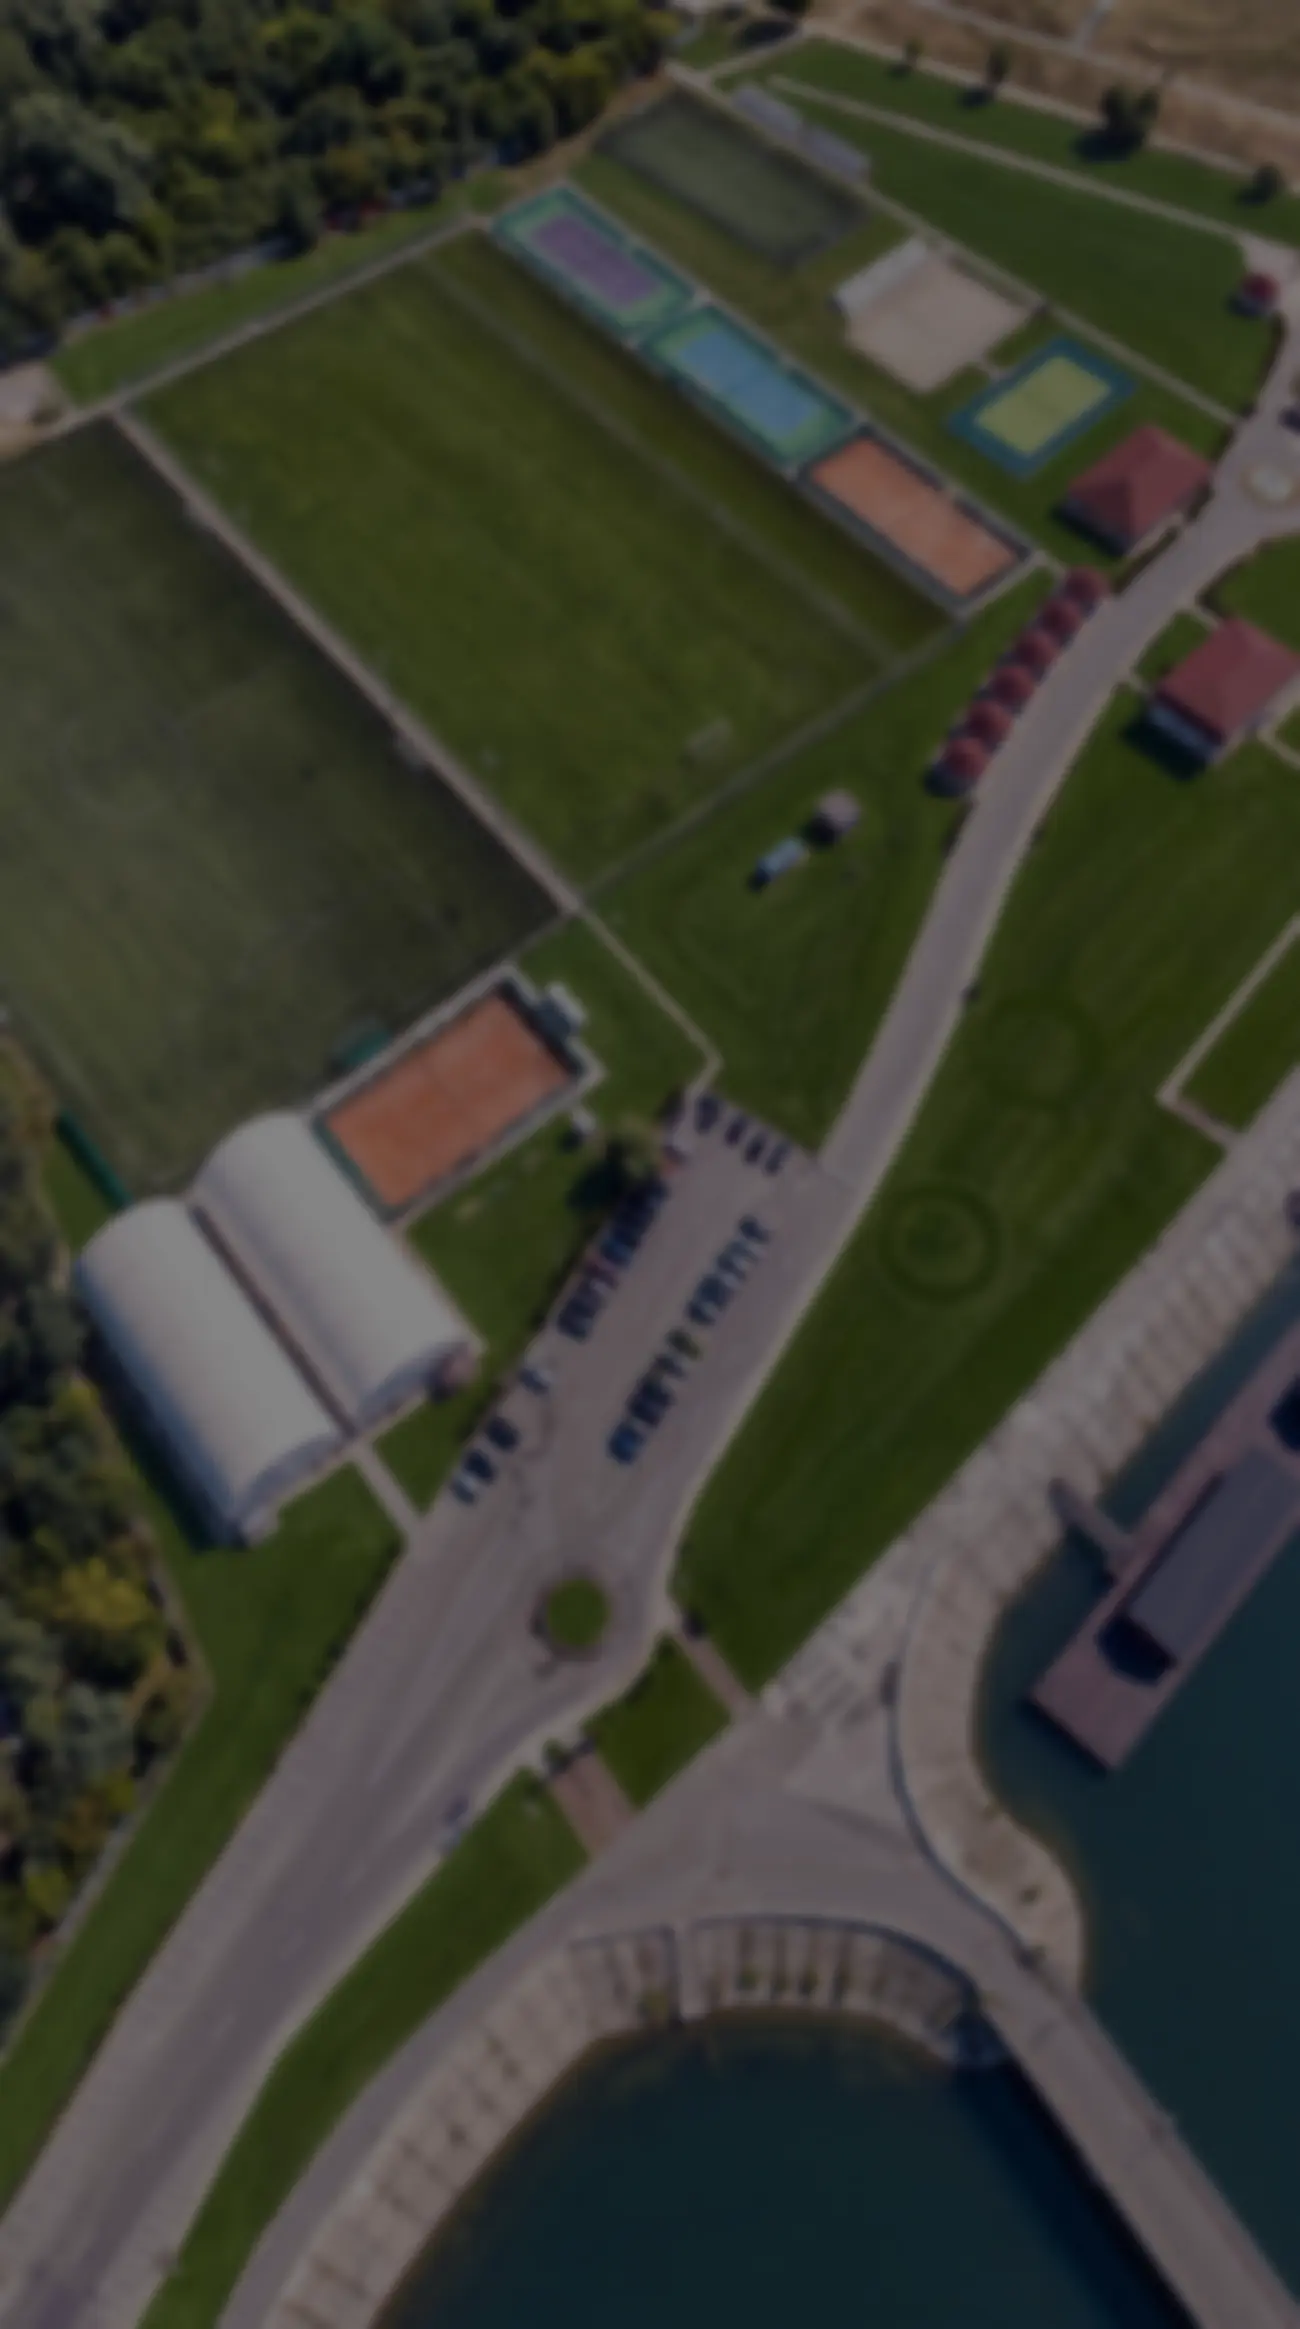
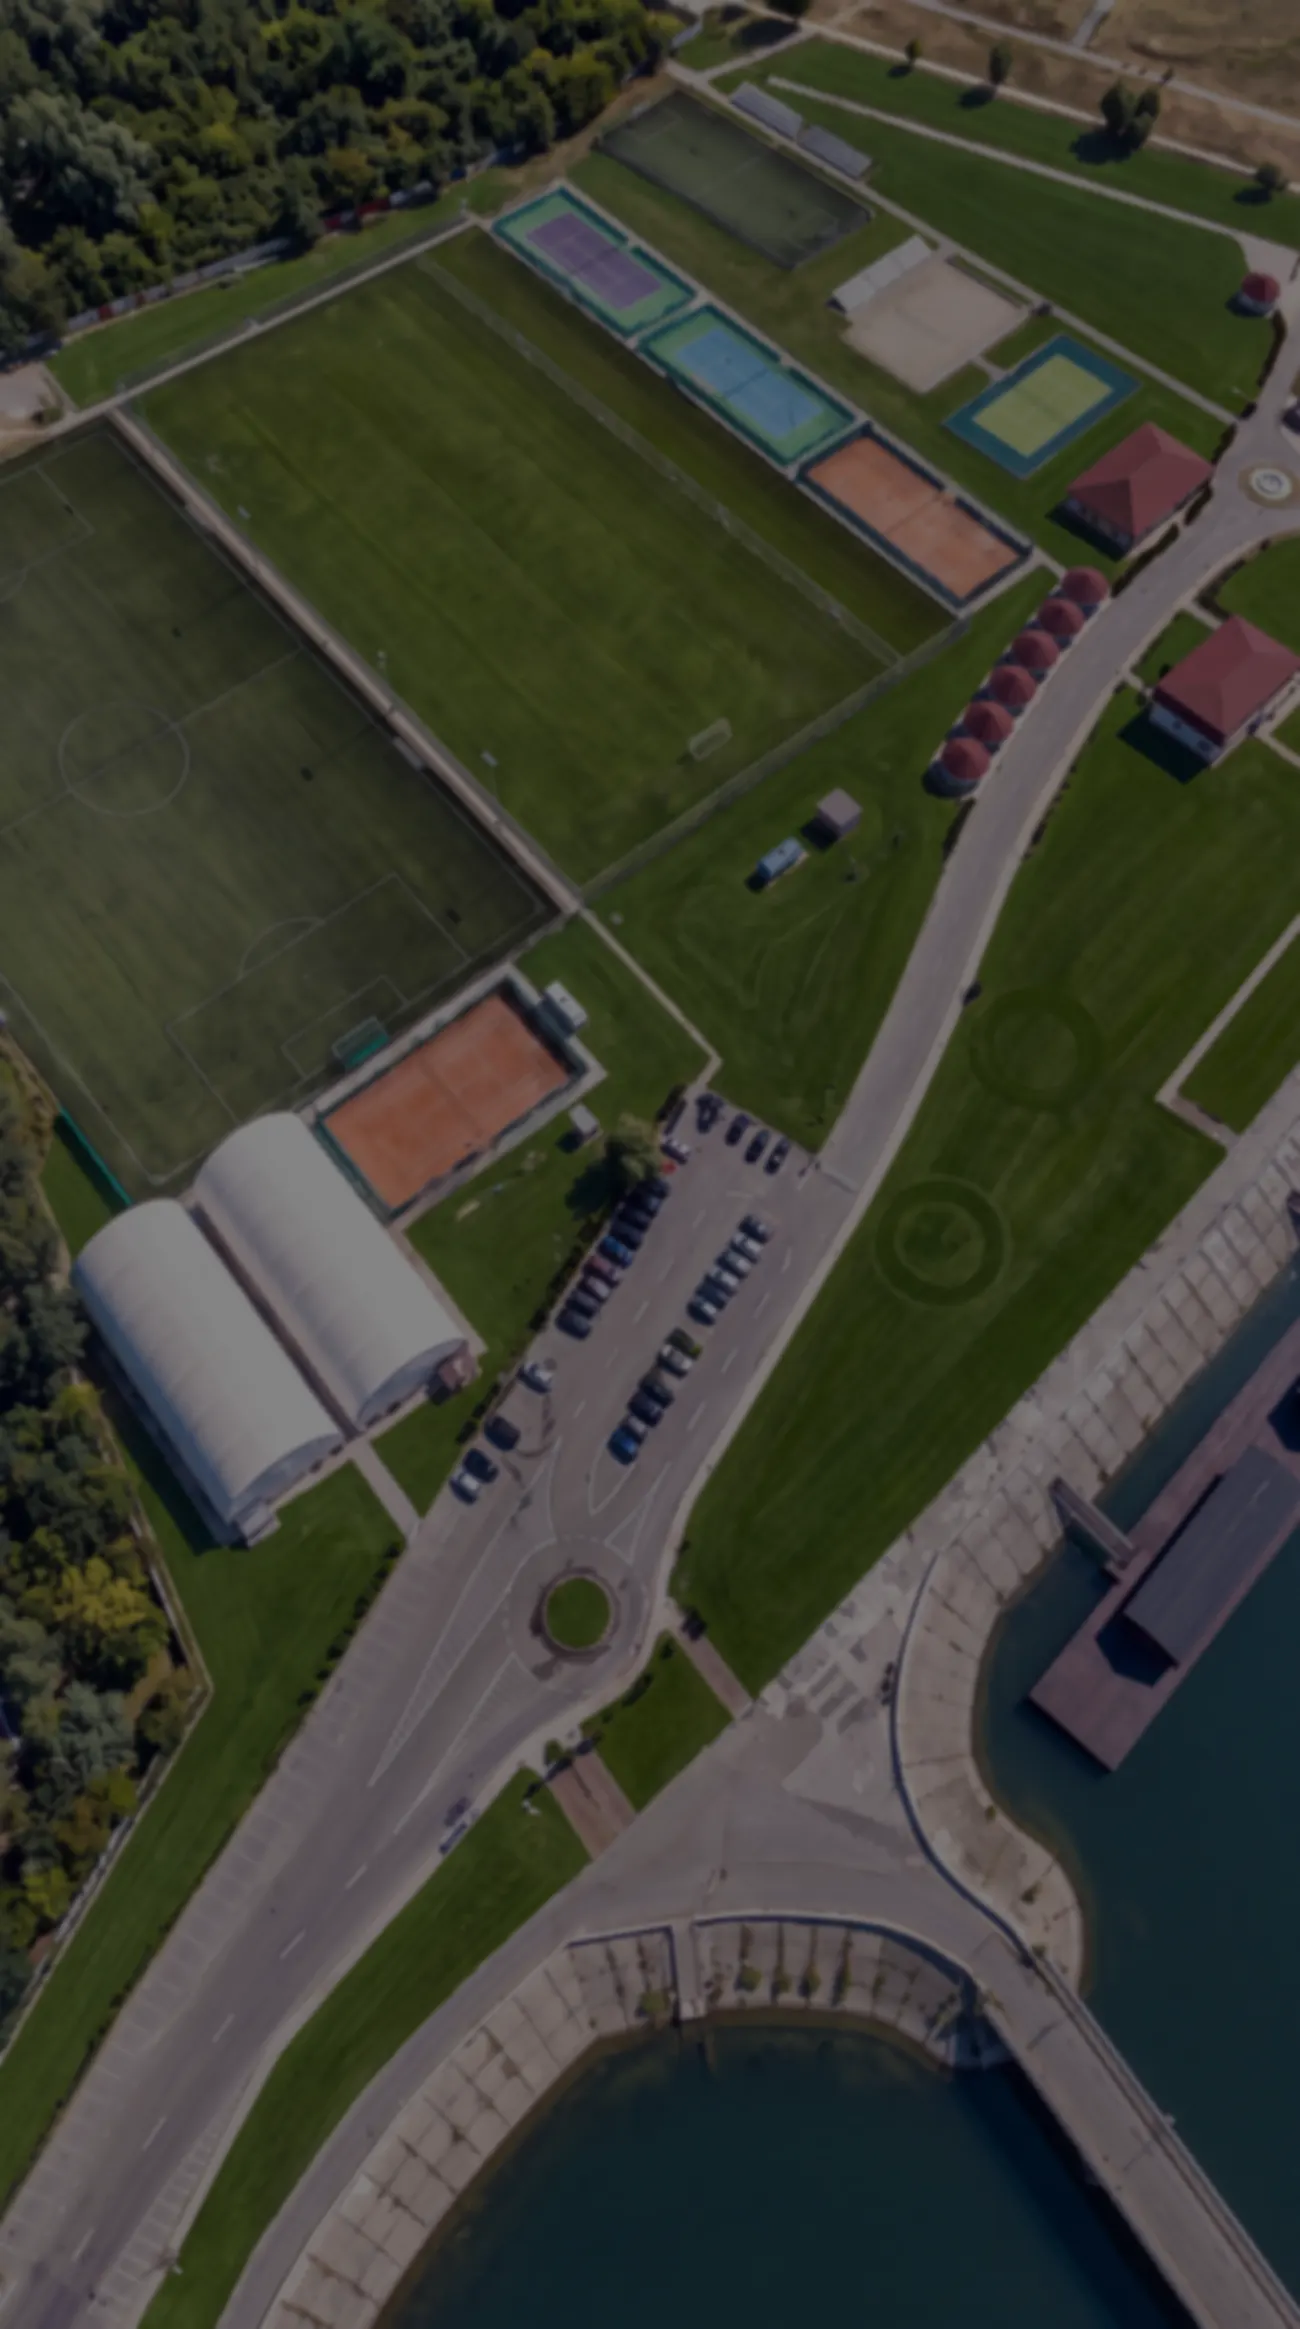
Plaja Olt: carusel cu swipe pe mobil la servicii, fundaluri mai clare
- pe telefon acordeonul devine carusel: carduri egale de 66vw, vecinul iese
  din ecran, scroll-snap, textul vizibil pe toate cardurile
- indicatoare sub carusel: puncte cu sageti, punctul activ se sincronizeaza
  la swipe si sare la card la atingere
- logica de acordeon dezactivata pe telefon, ca atingerea sa nu blocheze
  linkurile de rezervare; pe desktop acordeonul ramane neschimbat
- blurul fundalurilor redus de la 5 si 6 px la 2 px

diff --git a/css/plaja-v2.css b/css/plaja-v2.css
@@ -264,6 +264,22 @@
 .v2-cta:hover { color: var(--gold); border-color: var(--gold); transform: translateX(4px); }
 .v2-cta.gold { color: var(--gold); border-color: rgba(246,200,28,0.55); }
 .v2-cta.gold:hover { color: #ffd83d; border-color: #ffd83d; }
+/* indicatoarele caruselului (doar pe telefon) */
+.v2-dots {
+  display: none;
+  align-items: center; justify-content: center; gap: 7px;
+  margin-top: 14px;
+  color: rgba(255,255,255,0.45);
+}
+.v2-dots::before { content: "‹"; font-family: var(--font-display); font-size: 1rem; margin-right: 4px; }
+.v2-dots::after { content: "›"; font-family: var(--font-display); font-size: 1rem; margin-left: 4px; }
+.v2-dots .dot {
+  width: 6px; height: 6px; border-radius: 50%;
+  background: rgba(255,255,255,0.3);
+  transition: background 0.25s ease, transform 0.25s ease;
+}
+.v2-dots .dot.activ { background: var(--gold); transform: scale(1.35); }
+
 .v2-si-inca {
   width: min(1200px, 92vw); margin: clamp(22px, 3vw, 34px) auto 0;
   font-size: 0.85rem; color: rgba(255,255,255,0.55);
@@ -350,17 +366,25 @@
 }
 @media (max-width: 640px) {
   .v2-hero { height: 50svh; min-height: 340px; }
-  /* acordeonul rămâne orizontal și pe telefon: fâșiile pliate se subțiază mult,
-     ca fâșia deschisă să rămână destul de lată pentru preț și buton */
-  .v2-cards { width: 96vw; height: clamp(330px, 52svh, 430px); gap: 5px; }
-  .v2-card { flex: 0 0 26px; border-radius: 12px; }
-  .v2-card.is-open { flex: 1 1 auto; }
-  .v2-vert { font-size: 0.6rem; bottom: 10px; letter-spacing: 0.04em; }
-  .v2-card-copy { width: 100%; padding: 12px 12px 14px; gap: 3px; }
-  .v2-card h3 { font-size: 1.02rem; }
-  .v2-card-copy p { font-size: 0.72rem; line-height: 1.35; }
-  .v2-tag { font-size: 0.54rem; padding: 3px 8px; letter-spacing: 0.1em; }
-  .v2-cta { font-size: 0.74rem; margin-top: 7px; }
+  /* pe telefon acordeonul devine carusel cu swipe: carduri egale, mai înguste,
+     vecinii ies din ecran, iar punctele de sub ele arată că se poate glisa */
+  .v2-cards {
+    width: 100vw; height: clamp(330px, 52svh, 430px); gap: 12px;
+    overflow-x: auto; padding: 4px 17vw 8px;
+    scroll-snap-type: x mandatory;
+    scrollbar-width: none;
+  }
+  .v2-cards::-webkit-scrollbar { display: none; }
+  .v2-card, .v2-card.is-open { flex: 0 0 66vw; scroll-snap-align: center; cursor: default; }
+  .v2-vert { display: none; }
+  /* pe carusel, fiecare card e „deschis": conținutul se vede pe toate */
+  .v2-card .v2-card-copy { opacity: 1; transform: none; pointer-events: auto; transition: none; width: 100%; padding: 14px 16px 16px; gap: 4px; }
+  .v2-card .v2-card-veil { background: linear-gradient(to top, rgba(7,19,48,0.88) 0%, rgba(7,19,48,0.25) 45%, rgba(7,19,48,0.05) 70%); }
+  .v2-card h3 { font-size: 1.05rem; }
+  .v2-card-copy p { font-size: 0.74rem; line-height: 1.4; }
+  .v2-tag { font-size: 0.56rem; padding: 3px 9px; letter-spacing: 0.1em; }
+  .v2-cta { font-size: 0.76rem; margin-top: 8px; }
+  .v2-dots { display: flex; }
   /* prețurile compuse (30 min + 1 oră) au voie să treacă pe două rânduri */
   .v2-tarife li strong { white-space: normal; text-align: right; max-width: 46%; }
   .v2-aer img { object-position: 42% 45%; }

diff --git a/js/plaja-v2.js b/js/plaja-v2.js
@@ -7,9 +7,11 @@
 (function () {
   "use strict";
 
-  /* ---------- acordeonul de servicii: hover pe desktop, atingere pe mobil ---------- */
+  /* ---------- serviciile: acordeon pe desktop, carusel cu swipe pe telefon ---------- */
   var cards = Array.prototype.slice.call(document.querySelectorAll(".v2-card"));
+  var eTelefon = window.matchMedia("(max-width: 640px)");
   function deschide(card) {
+    if (eTelefon.matches) return; // pe carusel toate cardurile stau deschise
     cards.forEach(function (c) { c.classList.toggle("is-open", c === card); });
   }
   cards.forEach(function (card) {
@@ -17,11 +19,39 @@
       if (e.pointerType === "mouse") deschide(card);
     });
     card.addEventListener("click", function (e) {
+      if (eTelefon.matches) return; // nu bloca linkurile din carusel
       if (!card.classList.contains("is-open")) { e.preventDefault(); deschide(card); }
     });
     card.addEventListener("focusin", function () { deschide(card); });
   });
-  if (cards.length) deschide(cards[0]);
+  if (cards.length) cards[0].classList.add("is-open");
+
+  /* punctele caruselului: arată pe ce card ești și sar la el la atingere */
+  var banda = document.querySelector(".v2-cards");
+  var cutieDots = document.querySelector(".v2-dots");
+  if (banda && cutieDots && cards.length) {
+    var dots = cards.map(function (card, i) {
+      var d = document.createElement("span");
+      d.className = "dot" + (i === 0 ? " activ" : "");
+      d.addEventListener("click", function () {
+        banda.scrollTo({ left: card.offsetLeft - (banda.clientWidth - card.offsetWidth) / 2, behavior: "smooth" });
+      });
+      cutieDots.appendChild(d);
+      return d;
+    });
+    function sincron() {
+      if (!eTelefon.matches) return;
+      var mijloc = banda.scrollLeft + banda.clientWidth / 2;
+      var aproape = 0, best = Infinity;
+      cards.forEach(function (c, i) {
+        var d = Math.abs(c.offsetLeft + c.offsetWidth / 2 - mijloc);
+        if (d < best) { best = d; aproape = i; }
+      });
+      dots.forEach(function (d, i) { d.classList.toggle("activ", i === aproape); });
+    }
+    banda.addEventListener("scroll", function () { requestAnimationFrame(sincron); }, { passive: true });
+    sincron();
+  }
 
   var reduceMotion = window.matchMedia("(prefers-reduced-motion: reduce)").matches;
   if (typeof gsap === "undefined" || typeof ScrollTrigger === "undefined" || reduceMotion) return;

diff --git a/plaja-olt.html b/plaja-olt.html
@@ -218,6 +218,7 @@
         </article>
 
       </div>
+      <div class="v2-dots" aria-hidden="true"></div>
       <p class="v2-si-inca">și încă: fotbal pe sintetic · tenis de picior · frizerie — la fața locului</p>
     </section>
 
